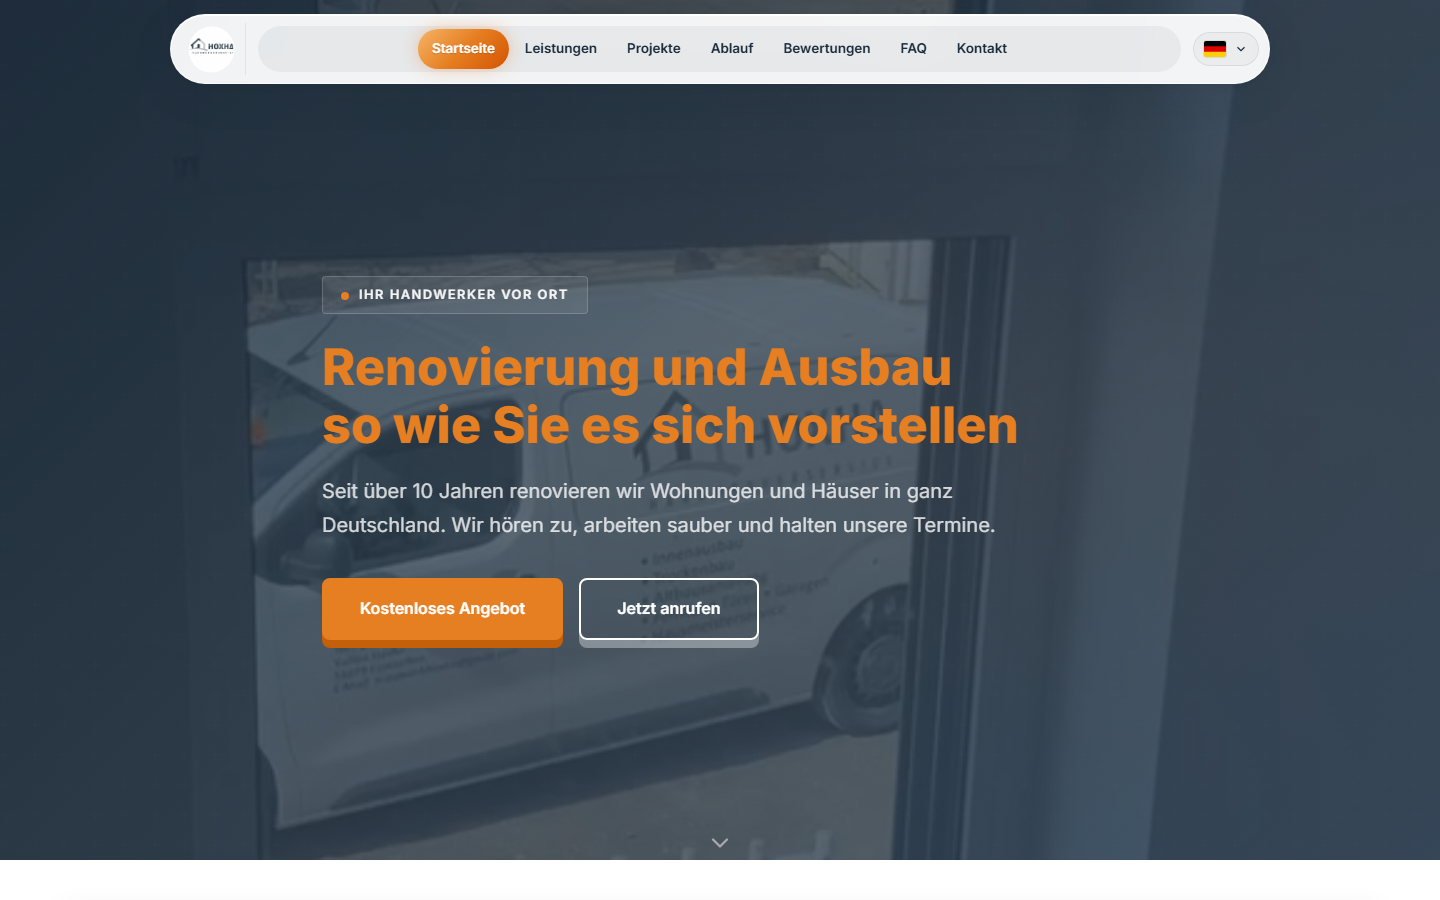
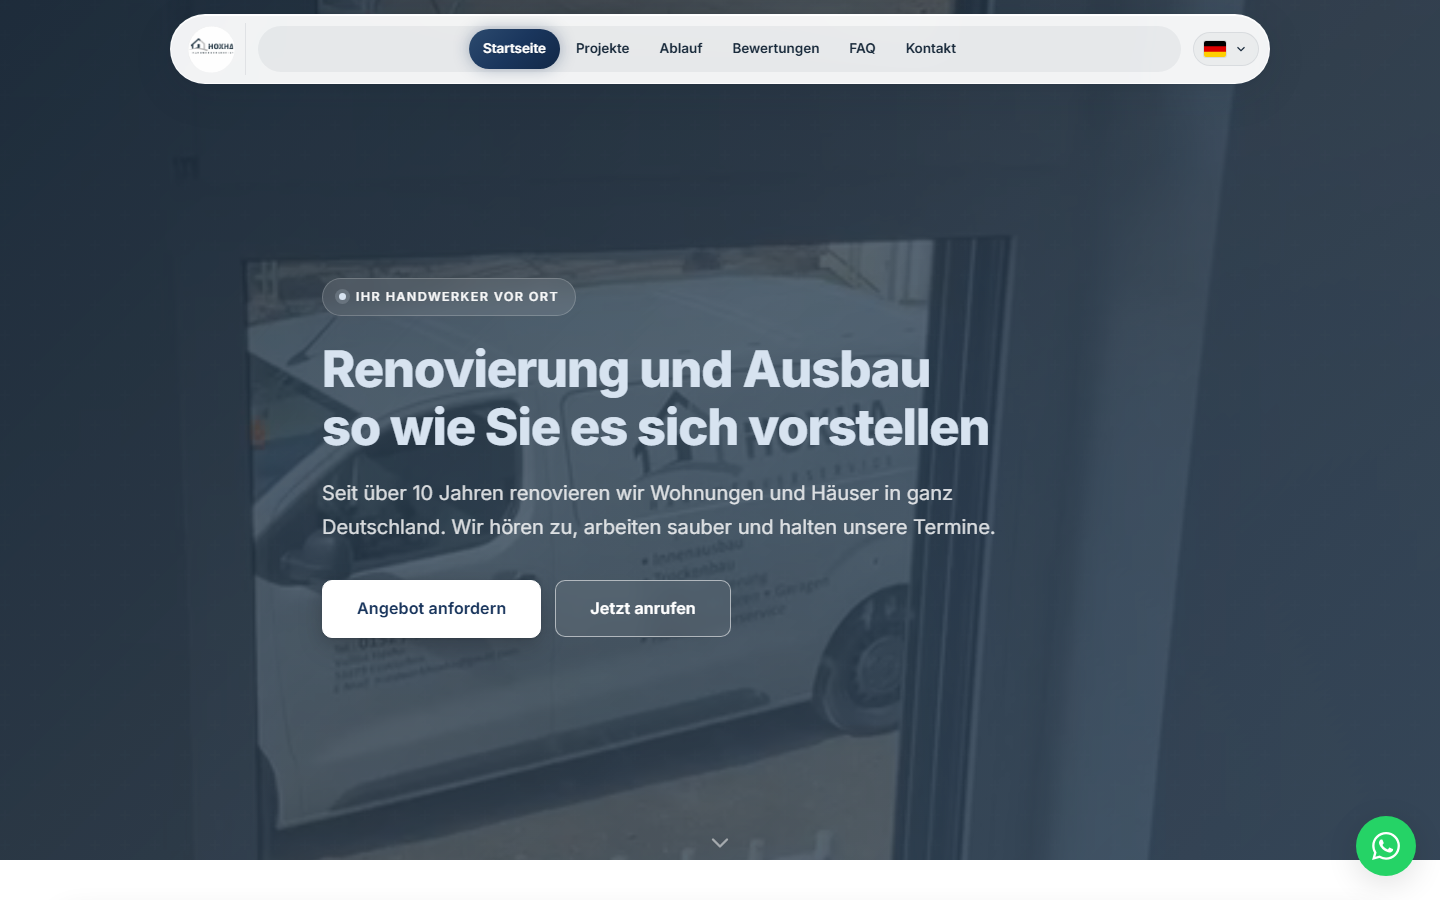
Update Hoxha Handwerk preview to the live site and keep the sitemap to the homepage.

diff --git a/projects/hoxha-handwerk/index.html b/projects/hoxha-handwerk/index.html
@@ -70,16 +70,17 @@
       <section class="case-study-section reveal">
         <span class="label">02. What I Built</span>
         <h2>What I Built</h2>
-        <p>A complete business website featuring service showcases, project galleries, process explanations, and contact functionality, all designed to present the business professionally and convert visitors into clients.</p>
+        <p>A complete business website featuring a conversion-focused hero, before/after project proof, process explanations, multilingual access, and contact paths including WhatsApp, all designed to present the business professionally and convert visitors into clients.</p>
         <ul class="feature-list">
           <li>Hero section</li>
-          <li>Services showcase</li>
-          <li>Projects gallery</li>
-          <li>Before/after presentation</li>
+          <li>Multilingual interface</li>
+          <li>Trust and values section</li>
+          <li>Before/after project gallery</li>
           <li>Process overview</li>
           <li>Testimonials</li>
           <li>FAQ section</li>
           <li>Contact form</li>
+          <li>WhatsApp contact</li>
           <li>Responsive UX</li>
           <li>Conversion-oriented layout</li>
         </ul>
@@ -88,13 +89,13 @@
       <section class="case-study-section reveal">
         <span class="label">03. User Experience</span>
         <h2>User Experience</h2>
-        <p>The site guides visitors from first impression through service exploration to contact. Clear visual hierarchy, before/after project presentations, and social proof through testimonials create a trustworthy experience that encourages engagement.</p>
+        <p>The site guides visitors from first impression through project proof to contact. Clear visual hierarchy, before/after presentations, and social proof through testimonials create a trustworthy experience that encourages engagement.</p>
       </section>
 
       <section class="case-study-section reveal">
         <span class="label">04. Design Decisions</span>
         <h2>Design Decisions</h2>
-        <p>The design emphasizes professionalism and craftsmanship. Strong hero imagery, structured service sections, and a clean layout ensure the business is presented at its best while maintaining fast load times and mobile responsiveness.</p>
+        <p>The design emphasizes professionalism and craftsmanship. Strong hero imagery, a trust-focused layout, and a clean visual system ensure the business is presented at its best while maintaining fast load times and mobile responsiveness.</p>
       </section>
 
       <section class="case-study-section reveal">
@@ -106,7 +107,7 @@
       <section class="case-study-section reveal">
         <span class="label">06. SEO Perspective</span>
         <h2>SEO Perspective</h2>
-        <p>The website is structured with proper heading hierarchy, descriptive metadata, and clear content organization. Service and project pages are designed to be crawlable and provide meaningful information for both search engines and users.</p>
+        <p>The website is structured with proper heading hierarchy, descriptive metadata, and clear content organization. Project and contact sections are designed to be crawlable and provide meaningful information for both search engines and users.</p>
       </section>
 
       <section class="case-study-section reveal">

diff --git a/js/data.js b/js/data.js
@@ -109,13 +109,14 @@ const projects = [
     technologies: ['HTML', 'CSS', 'JavaScript', 'Web Development', 'Responsive Design'],
     features: [
       'Hero section',
-      'Services showcase',
-      'Projects gallery',
-      'Before/after presentation',
+      'Multilingual interface',
+      'Trust and values section',
+      'Before/after project gallery',
       'Process overview',
       'Testimonials',
       'FAQ section',
       'Contact form',
+      'WhatsApp contact',
       'Responsive UX',
       'Conversion-oriented layout'
     ],
